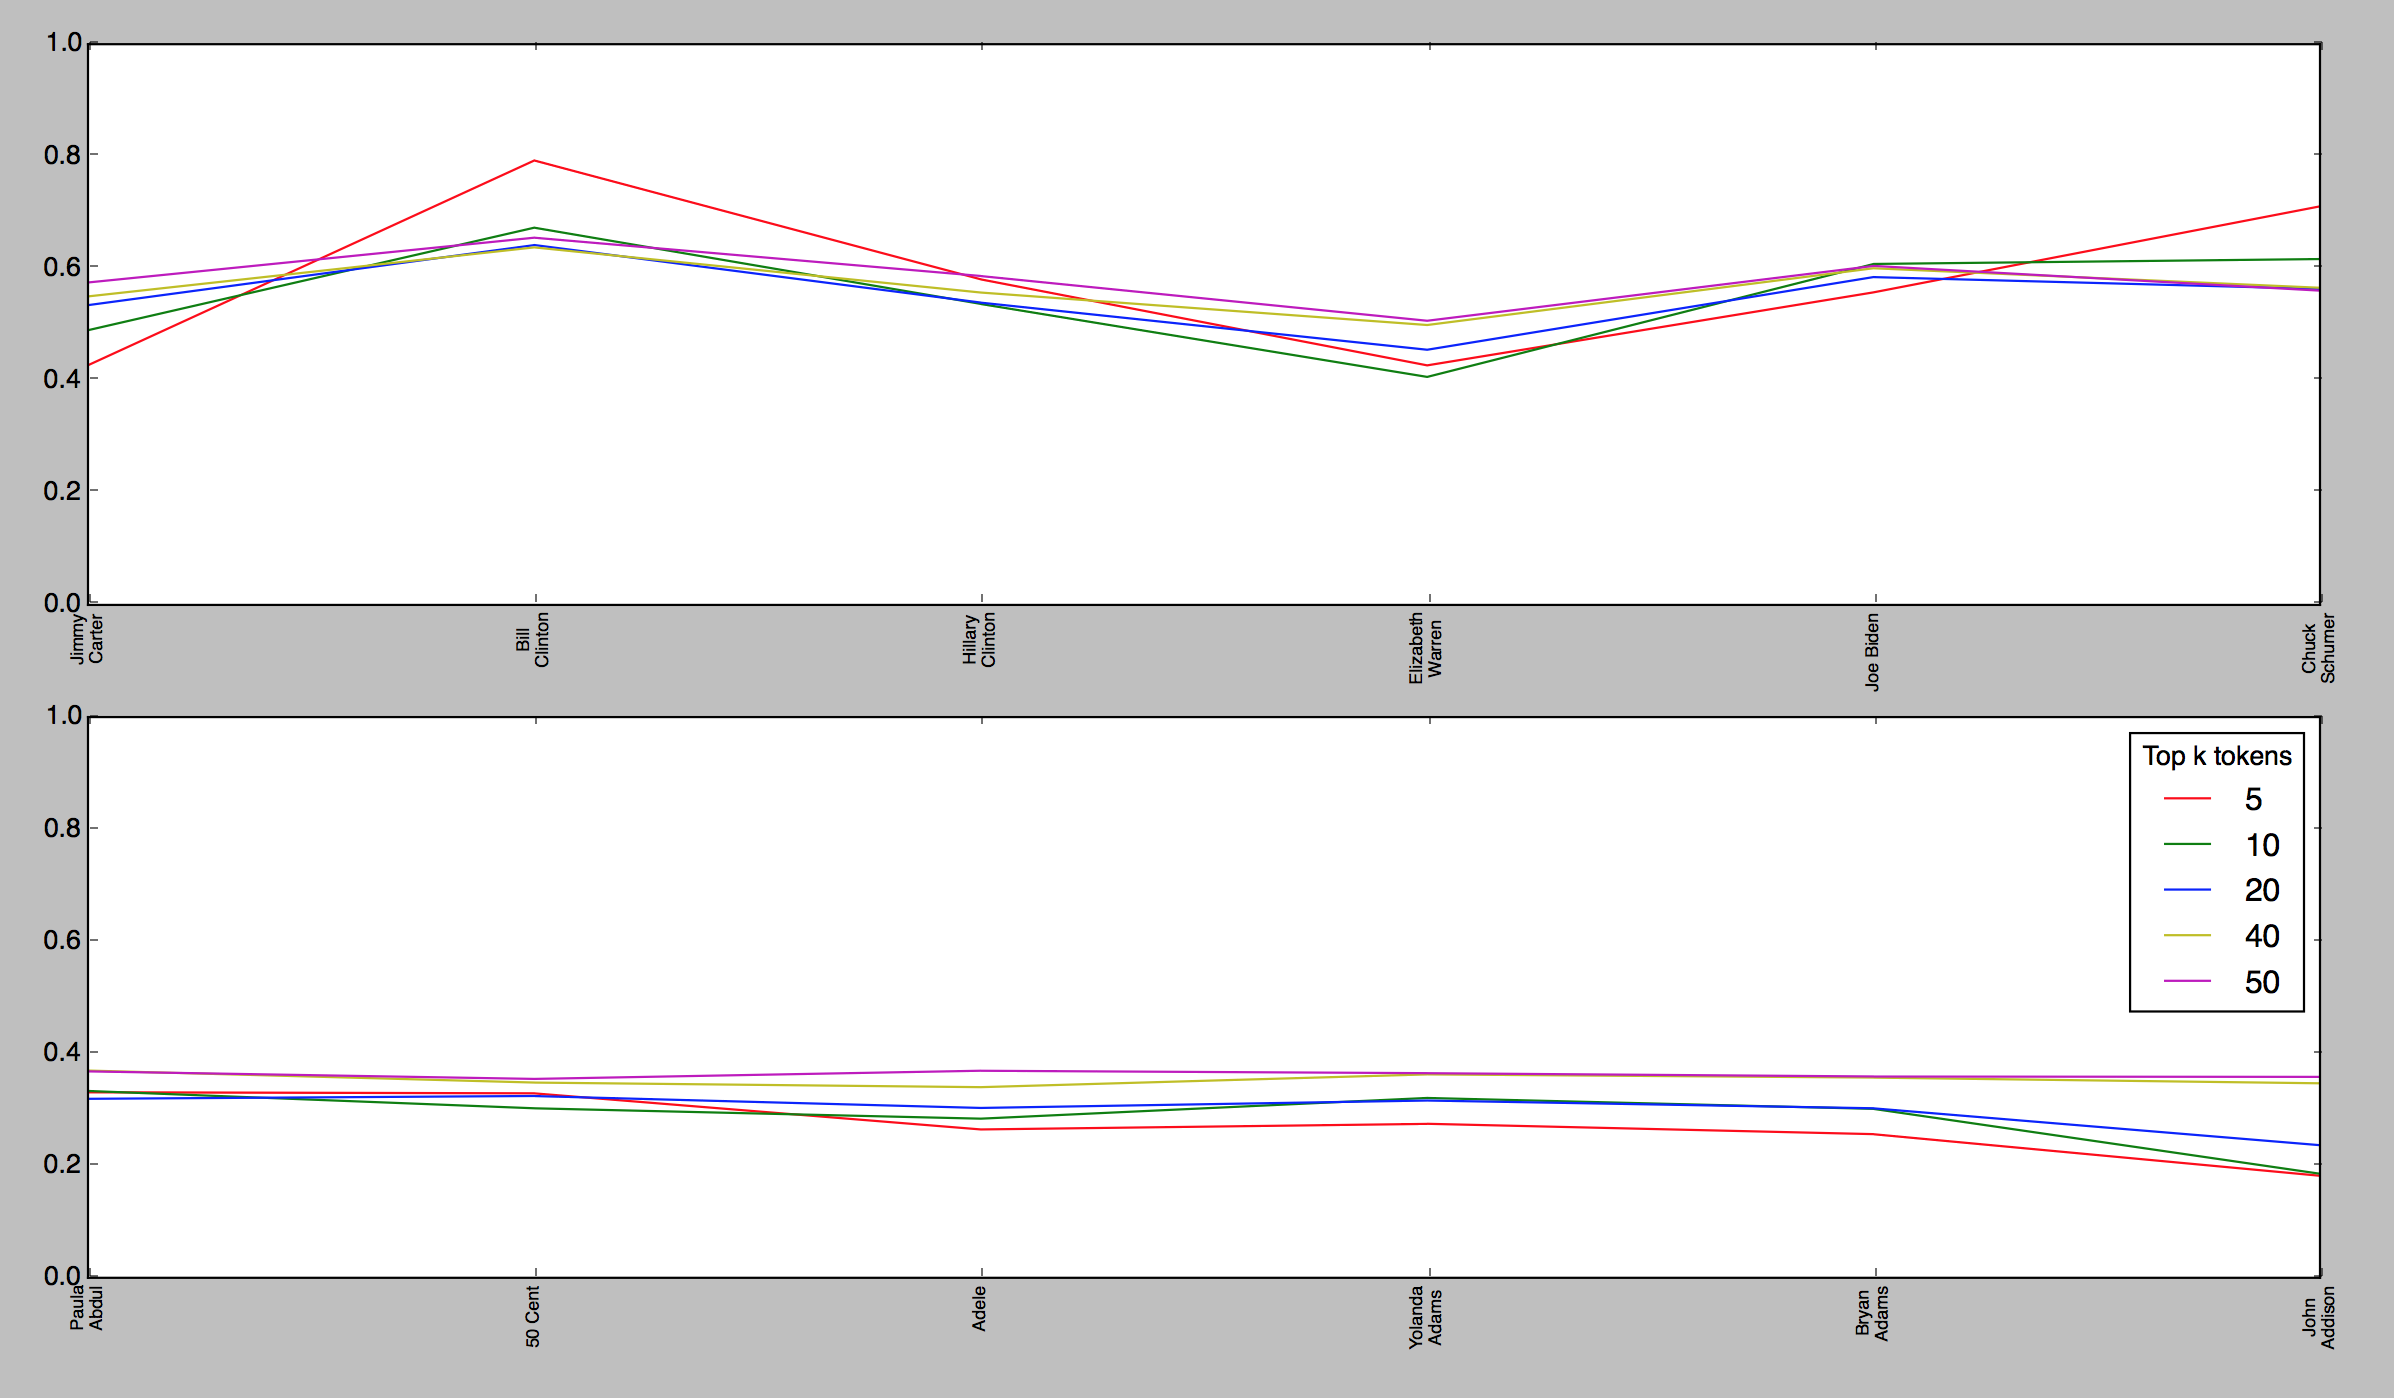
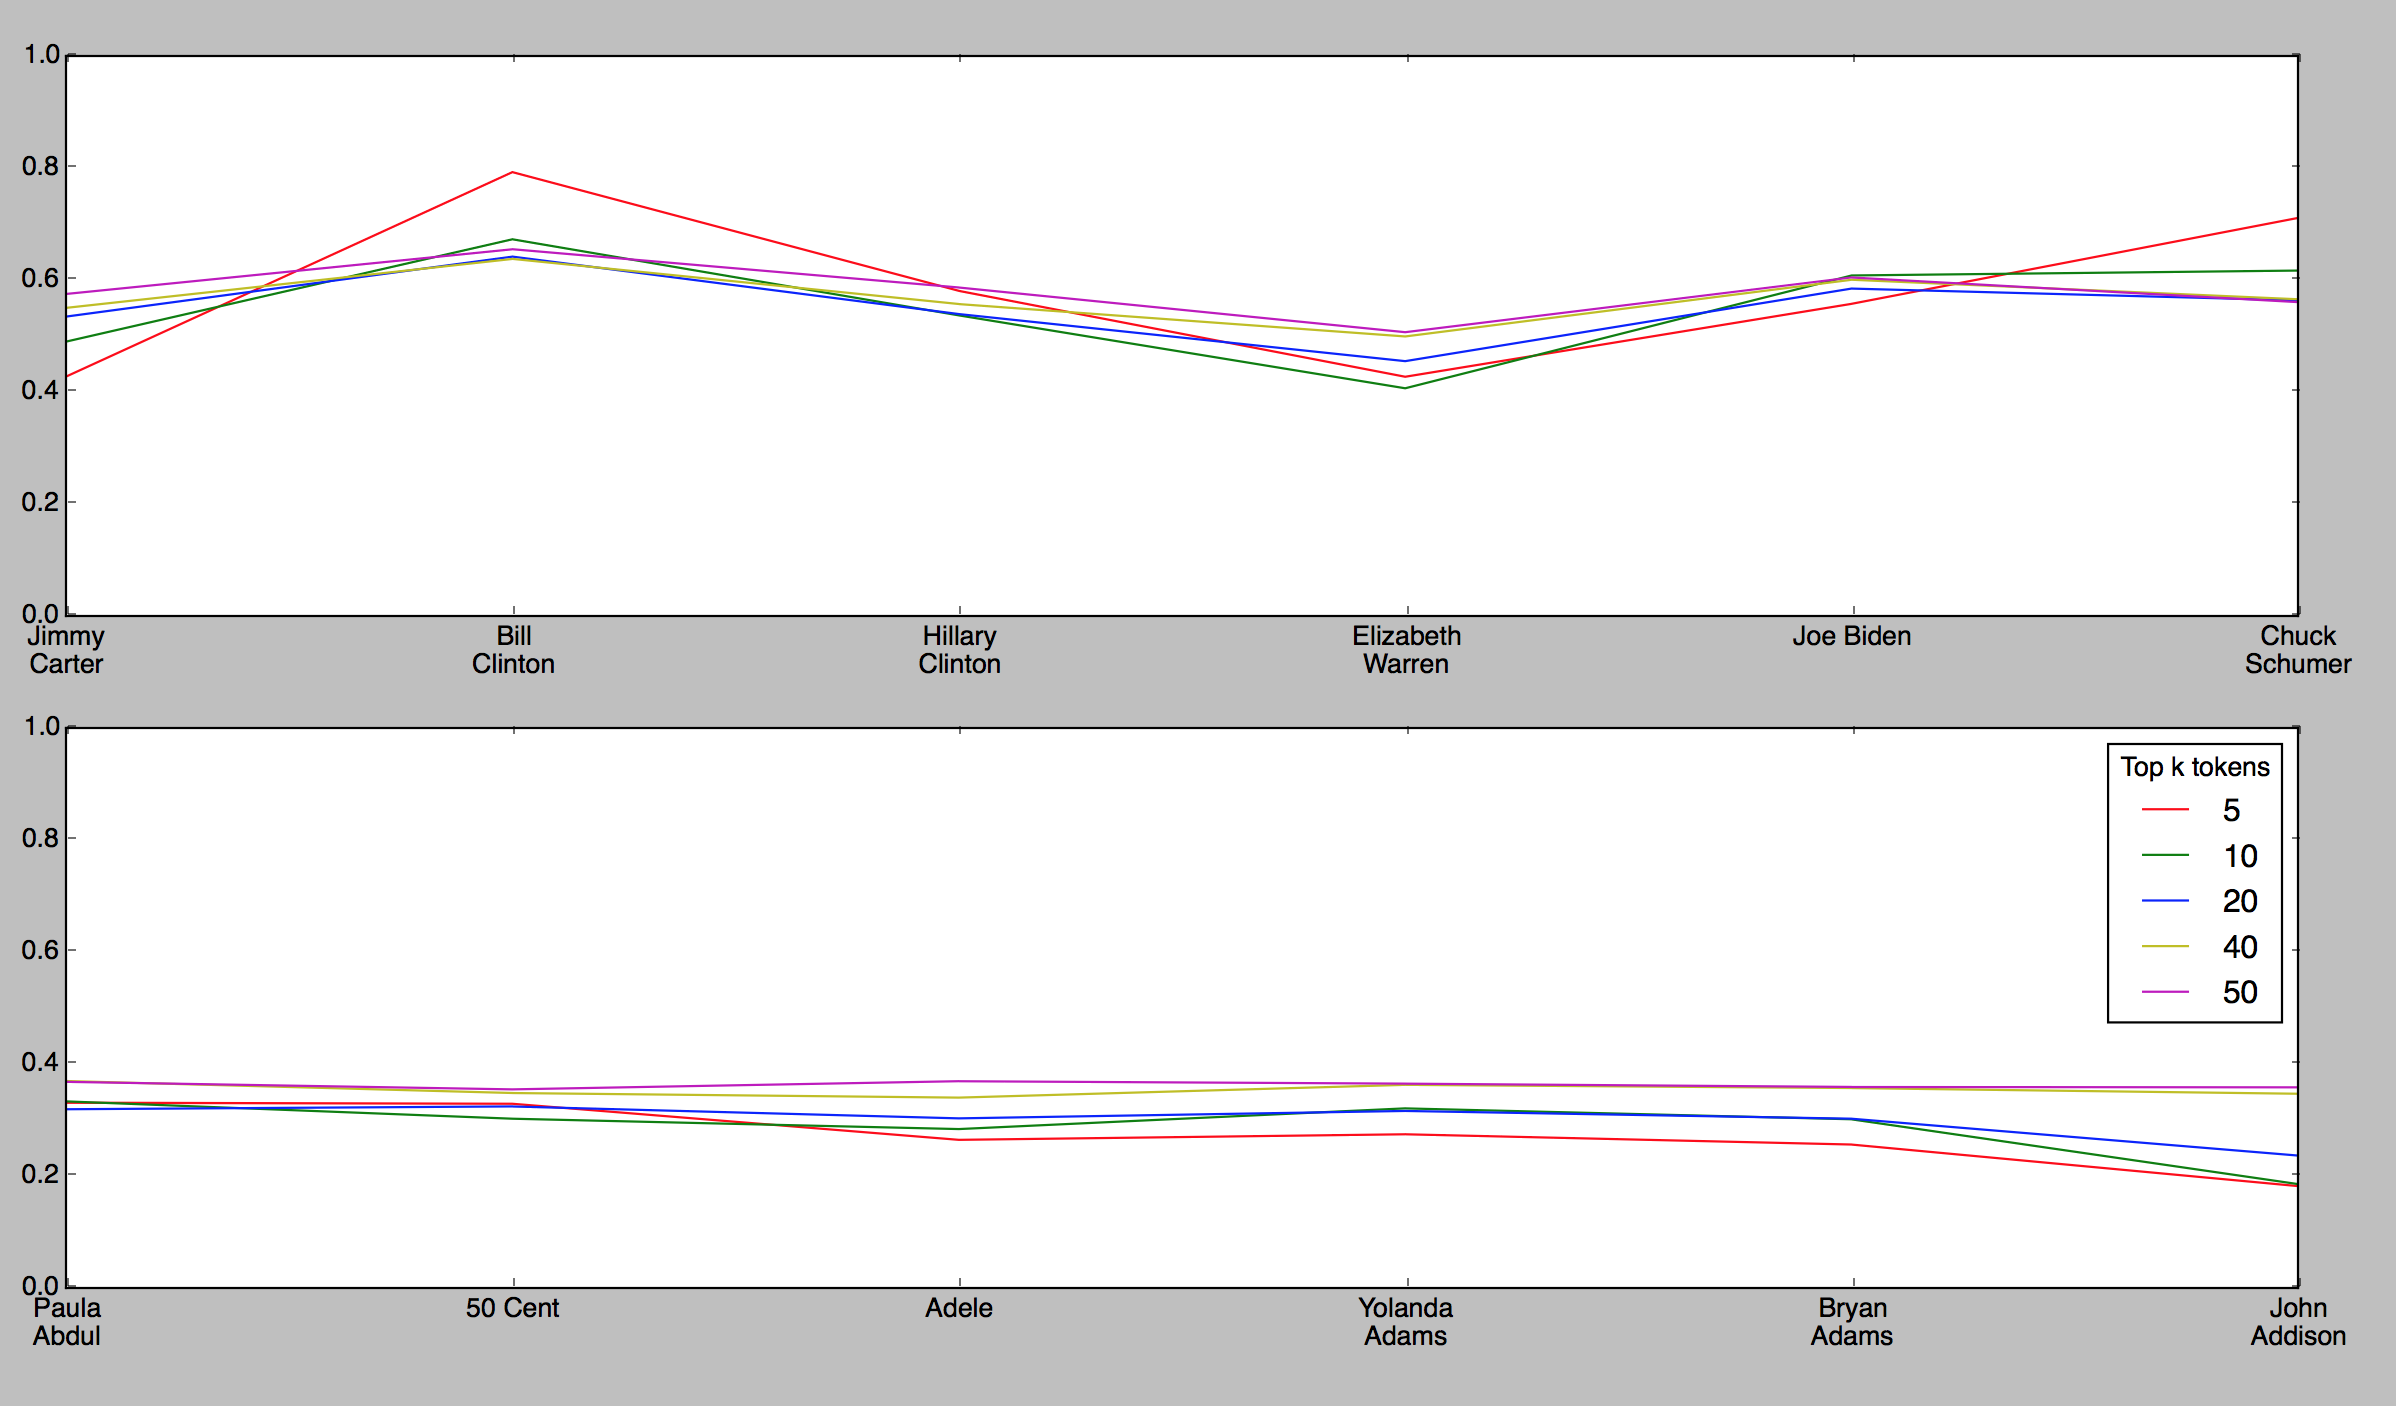
Notebook done till graph code

Changed region(s): [[0.0, 0.0308, 0.9891, 0.9535]]

diff --git a/graphplot.py b/graphplot.py
@@ -41,9 +41,6 @@ def drawSimPlotFixed(wiki_parser_instance, wiki_trivia_metric_calculator_instanc
     topk_contenders = [5, 10, 20, 40, 50]
     colors = ["r", "g", "b", "y", "m"]
     plt.figure(2)
-    plt.xlabel('Compared articles')
-    plt.ylabel('Similarity')
-    plt.title('Barack Obama similarity')
     size_new = len(topk_contenders)
     for i in range(0, size_new):
         wiki_trivia_metric_calculator_instance.k_val = topk_contenders[i]
@@ -55,7 +52,7 @@ def drawSimPlotFixed(wiki_parser_instance, wiki_trivia_metric_calculator_instanc
             graph_list.append(wiki_trivia_metric_calculator_instance.getEntitySimilarity(topk1, topk_current))
         tups = zip(*enumerate(graph_list))
         plt.subplot(211)
-        plt.xticks(tups[0], [textwrap.fill(text, 10) for text in initial_list], rotation=90, fontsize=8)
+        plt.xticks(tups[0], [textwrap.fill(text, 10) for text in initial_list])
         plt.ylim((0.0, 1.0))
         plt.plot(tups[0], tups[1], label=str(topk_contenders[i]), color=colors[i])
 
@@ -66,7 +63,7 @@ def drawSimPlotFixed(wiki_parser_instance, wiki_trivia_metric_calculator_instanc
             graph_list_new.append(wiki_trivia_metric_calculator_instance.getEntitySimilarity(topk1, topk_current))
         tups_new = zip(*enumerate(graph_list_new))
         plt.subplot(212)
-        plt.xticks(tups_new[0], [textwrap.fill(text, 10) for text in grammy_winners], rotation=90, fontsize=8)
+        plt.xticks(tups_new[0], [textwrap.fill(text, 10) for text in grammy_winners])
         plt.ylim((0.0, 1.0))
         plt.plot(tups_new[0], tups_new[1], label=str(topk_contenders[i]), color=colors[i])
     plt.legend(title="Top k tokens").draggable()

diff --git a/README.md b/README.md
@@ -38,7 +38,7 @@ https://drive.google.com/file/d/0B7XkCwpI5KDYNlNUTTlSS21pQmM/edit
     
     Download nltk corpora, by opening interactive python 
     
-    >>> ntlk.downlaod()
+    >>> ntlk.download()
     
 -  For running the app there are two options:
    
